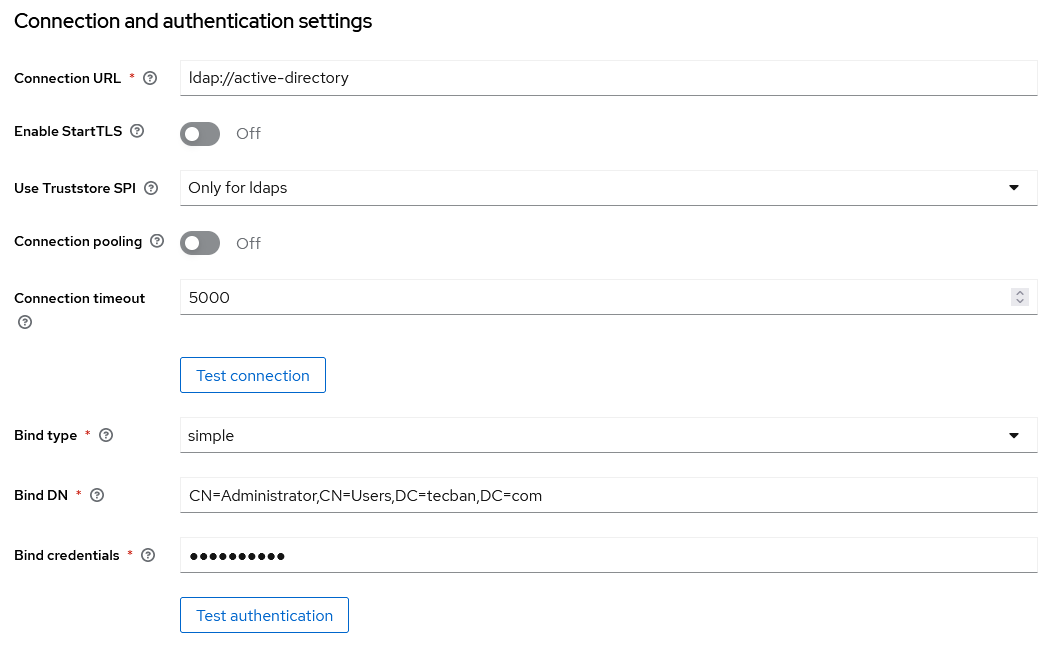
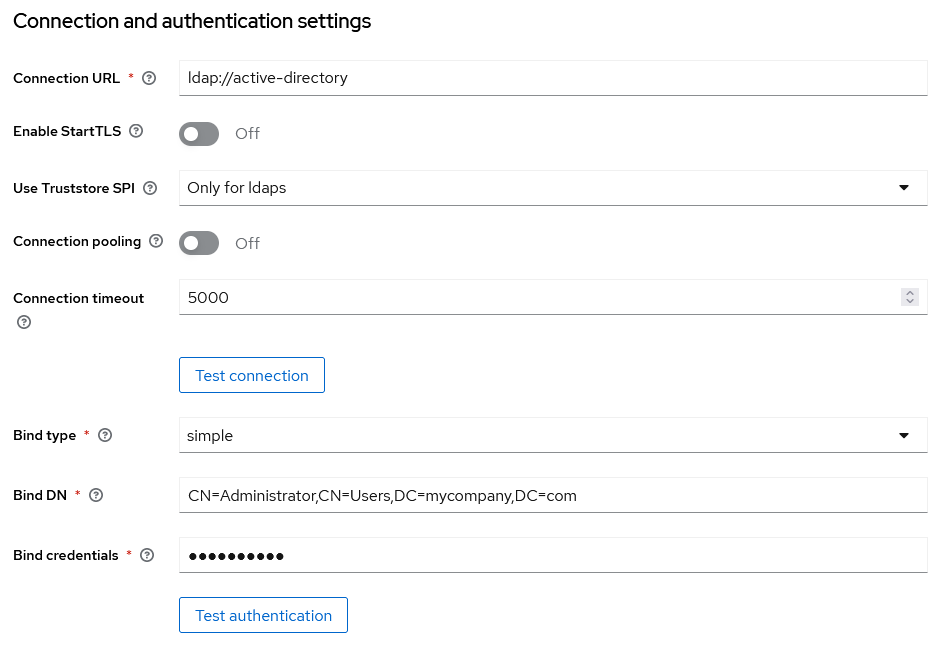
Replace company name

diff --git a/README.md b/README.md
@@ -18,15 +18,15 @@ docker-compose -p keycloak-dev up -d
 
 ### Active Directory
 
-> You can also use `DC=tecban,DC=com` as the Base DN, but beware that it will make overall usage of
+> You can also use `DC='mycompany',DC=com` as the Base DN, but beware that it will make overall usage of
 > LDAP Admin and AD syncs **a lot** slower.
 
-| Parameter   | Value                     |
-| :---------- | :------------------------ |
-| Port (LDAP) | 389                       |
-| Base        | CN=Users,DC=tecban,DC=com |
-| Username    | Administrator             |
-| Password    | Pa$$w0rd                  |
+| Parameter   | Value                        |
+| :---------- | :--------------------------- |
+| Port (LDAP) | 389                          |
+| Base        | CN=Users,DC=mycompany,DC=com |
+| Username    | Administrator                |
+| Password    | Pa$$w0rd                     |
 
 #### Transport security
 
@@ -46,8 +46,8 @@ adding its CA to every container / host that interacts with it, include the foll
 # Global parameters
 [global]
 	dns forwarder = 127.0.0.11
-	netbios name = TECBAN
-	realm = TECBAN.COM
+	netbios name = MYCOMPANY
+	realm = MYCOMPANY.COM
 	server role = active directory domain controller
 	workgroup = DEV-AD
 	idmap_ldb:use rfc2307 = yes
@@ -60,7 +60,7 @@ adding its CA to every container / host that interacts with it, include the foll
 	read only = No
 
 [netlogon]
-	path = /var/lib/samba/sysvol/tecban.com/scripts
+	path = /var/lib/samba/sysvol/mycompany.com/scripts
 	read only = No
 
 ```
